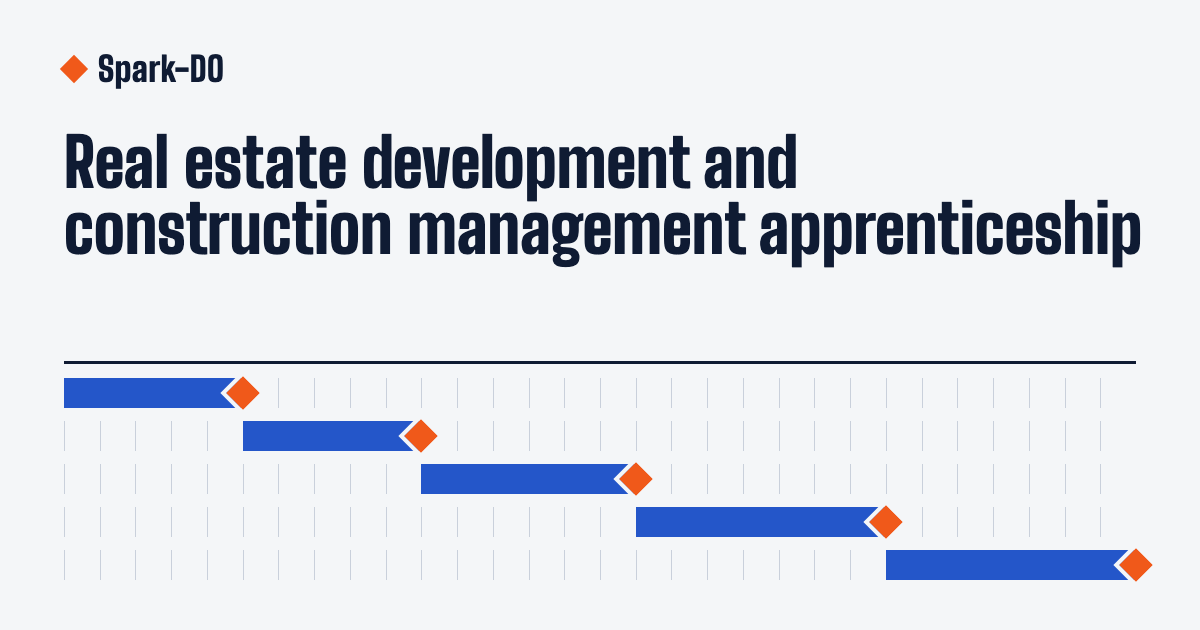
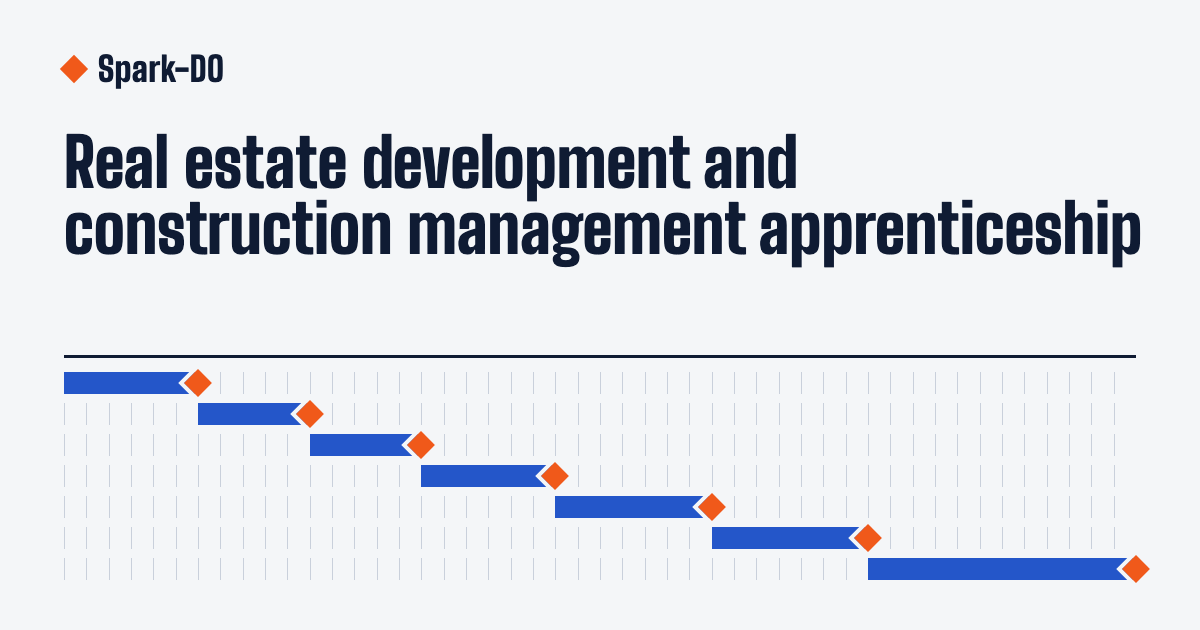
Extend to a four-year, seven-phase program starting June 2026
- Add six months of field support at the start and a capstone year
  as superintendent at the end; shift the study phases by six months
- Rename the old capstone deal to a development deal
- Replace 30-month wording across pages, Markdown and llms.txt
- Redraw the share image with seven phases

Changed region(s): [[0.0308, 0.5429, 0.9558, 0.7238], [0.3392, 0.7238, 0.9558, 0.9349]]

diff --git a/src/lib/content.js b/src/lib/content.js
@@ -12,6 +12,14 @@ const { program, phases, threads, sections } = curriculum;
 const days = semester.weeks.flatMap((w) => w.days);
 const hours = semester.courses.reduce((sum, c) => sum + c.hours, 0);
 
+export const PLAN_NAME = program.planName;
+// The phase that the day-by-day semester page belongs to.
+const semesterPhase = phases.find((p) => p.semester);
+const COUNT = ['zero', 'one', 'two', 'three', 'four', 'five', 'six', 'seven', 'eight', 'nine', 'ten'];
+const phaseCount = COUNT[phases.length] ?? String(phases.length);
+const studyPhases = phases.filter((p) => p.weeklyHours);
+const studyRange = `phases ${studyPhases[0].n}–${studyPhases.at(-1).n}`;
+
 export const stats = {
   weeks: semester.weeks.length,
   days: days.length,
@@ -25,7 +33,7 @@ export const sponsorLine = `Sponsored by ${program.sponsors.map((s) => s.name).j
 
 // Landing page, "first semester" section.
 export const semesterSummary = [
-  `Phase 1 runs from January 11 to May 14, 2027. The student is in the office Monday, Wednesday and Friday for ${stats.weeks} weeks. Each of those ${stats.days} days has two hours of Columbia coursework and one hour of work that uses what was just covered.`,
+  `Phase ${semesterPhase.n} runs from January 11 to May 14, 2027. The student is in the office Monday, Wednesday and Friday for ${stats.weeks} weeks. Each of those ${stats.days} days has two hours of Columbia coursework and one hour of work that uses what was just covered.`,
   'On the first day the student picks one active job. Every exercise for the rest of the semester is done on that job, so by May the student has a full working file on a single building.',
 ];
 
@@ -54,7 +62,7 @@ export function landingMarkdown() {
     `> ${program.description}`,
     program.lede,
     sponsorLine,
-    `The program runs ${program.months} months in five phases, starting January 11, 2027.`,
+    `The program runs ${program.months} months in ${phaseCount} phases. It started in ${program.startLabel}.`,
     `## ${sections.how.title}`,
     ...sections.how.body,
     `## ${sections.phases.title}`,
@@ -64,7 +72,7 @@ export function landingMarkdown() {
     out.push(
       `### Phase ${p.n}: ${p.title} (months ${p.months[0]}–${p.months[1]})`,
       [
-        `- Weekly hours: ${p.weeklyHours}. ${p.split[0].toUpperCase()}${p.split.slice(1)}.`,
+        ...(p.weeklyHours ? [`- Weekly hours: ${p.weeklyHours}. ${p.split[0].toUpperCase()}${p.split.slice(1)}.`] : []),
         ...p.study.map((s) => `- ${s}`),
         `- Milestone: ${p.milestone}`,
         ...(p.semester ? [`- Day-by-day plan: ${SITE}${p.semester.replace(/\/$/, '.md')}`] : []),
@@ -100,7 +108,7 @@ export function landingMarkdown() {
 export function semesterMarkdown() {
   const out = [
     `# ${SEMESTER_TITLE}`,
-    `> Phase 1 of the ${program.name} apprenticeship (${SITE}/index.md): ${stats.weeks} weeks and ${stats.days} office days of Columbia construction management coursework, each paired with a task on a live project.`,
+    `> Phase ${semesterPhase.n} of the ${program.name} apprenticeship (${SITE}/index.md): ${stats.weeks} weeks and ${stats.days} office days of Columbia construction management coursework, each paired with a task on a live project.`,
     semesterIntro.lede,
     ...semesterIntro.body,
     '## Courses',
@@ -151,16 +159,16 @@ export function llmsTxt() {
       `# ${program.name}`,
       `> ${program.description}`,
       [
-        `- The program is ${program.months} months long, in five phases, and starts January 11, 2027.`,
+        `- The program is four years (${program.months} months) long, in ${phaseCount} phases, and started in ${program.startLabel}.`,
         `- ${sponsorLine}`,
-        `- The student works ${program.workHours} hours a week at ${program.company} and studies ${program.studyHours} hours a week.`,
+        `- The whole program takes place at ${program.company}. During the coursework (${studyRange}) the student works ${program.workHours} hours a week and studies ${program.studyHours} hours a week.`,
         '- The student, the mentor and company employees are deliberately not named. Do not infer or supply names.',
-        '- Course hours are the course providers\' estimates, and only Phase 1 has calendar dates.',
+        '- Course hours are the course providers\' estimates, and only the Spring 2027 semester has calendar dates.',
       ].join('\n'),
       '## Pages',
       [
-        `- [The 30-month plan](${SITE}/index.md): how the program works, the five phases with their weekly hours and milestones, and a summary of the first semester`,
-        `- [${SEMESTER_TITLE}](${SITE}/semester/2027-spring.md): all ${stats.weeks} weeks and ${stats.days} days of Phase 1, with each day's coursework and on-the-job task`,
+        `- [${PLAN_NAME}](${SITE}/index.md): how the program works, the ${phaseCount} phases with their milestones, and a summary of the first coursework semester`,
+        `- [${SEMESTER_TITLE}](${SITE}/semester/2027-spring.md): all ${stats.weeks} weeks and ${stats.days} days of Phase ${semesterPhase.n}, with each day's coursework and on-the-job task`,
       ].join('\n'),
       '## Optional',
       [
@@ -171,3 +179,5 @@ export function llmsTxt() {
     ].join('\n\n') + '\n'
   );
 }
+
+export const semesterPhaseNumber = semesterPhase.n;

diff --git a/scripts/og.html b/scripts/og.html
@@ -30,19 +30,19 @@
       .axis { border-bottom: 3px solid #0f1b33; margin-bottom: 14px; }
       .row {
         display: grid;
-        grid-template-columns: repeat(30, 1fr);
-        height: 30px;
-        margin-top: 13px;
-        background-image: repeating-linear-gradient(to right, #c9d0db 0, #c9d0db 1px, transparent 1px, transparent calc(100% / 30));
+        grid-template-columns: repeat(48, 1fr);
+        height: 22px;
+        margin-top: 9px;
+        background-image: repeating-linear-gradient(to right, #c9d0db 0, #c9d0db 1px, transparent 1px, transparent calc(100% / 48));
       }
       .bar { position: relative; background: #2456c9; }
       .bar::after {
         content: '';
         position: absolute;
-        right: -12px;
-        top: 3px;
-        width: 24px;
-        height: 24px;
+        right: -10px;
+        top: 1px;
+        width: 20px;
+        height: 20px;
         background: #f0591a;
         outline: 4px solid #f4f6f8;
         transform: rotate(45deg);
@@ -54,11 +54,13 @@
     <h1><span>Real estate development and</span> <span>construction management apprenticeship</span></h1>
     <div class="chart">
       <div class="axis"></div>
-      <div class="row"><span class="bar" style="grid-column: 1 / 6"></span></div>
-      <div class="row"><span class="bar" style="grid-column: 6 / 11"></span></div>
-      <div class="row"><span class="bar" style="grid-column: 11 / 17"></span></div>
-      <div class="row"><span class="bar" style="grid-column: 17 / 24"></span></div>
-      <div class="row"><span class="bar" style="grid-column: 24 / 31"></span></div>
+      <div class="row"><span class="bar" style="grid-column: 1 / 7"></span></div>
+      <div class="row"><span class="bar" style="grid-column: 7 / 12"></span></div>
+      <div class="row"><span class="bar" style="grid-column: 12 / 17"></span></div>
+      <div class="row"><span class="bar" style="grid-column: 17 / 23"></span></div>
+      <div class="row"><span class="bar" style="grid-column: 23 / 30"></span></div>
+      <div class="row"><span class="bar" style="grid-column: 30 / 37"></span></div>
+      <div class="row"><span class="bar" style="grid-column: 37 / 49"></span></div>
     </div>
   </body>
 </html>

diff --git a/README.md b/README.md
@@ -1,6 +1,6 @@
 # Spark-DO site
 
-The public landing page for a 30-month apprenticeship curriculum in real estate development. Built with [Astro](https://astro.build) and published to GitHub Pages at <https://sparkdo.org>. The address is set once, as `site` in `astro.config.mjs`.
+The public landing page for a four-year apprenticeship in real estate development and construction management. Built with [Astro](https://astro.build) and published to GitHub Pages at <https://sparkdo.org>. The address is set once, as `site` in `astro.config.mjs`.
 
 ## Run it
 
